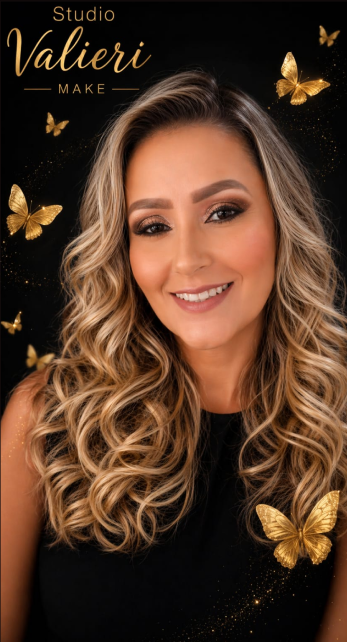
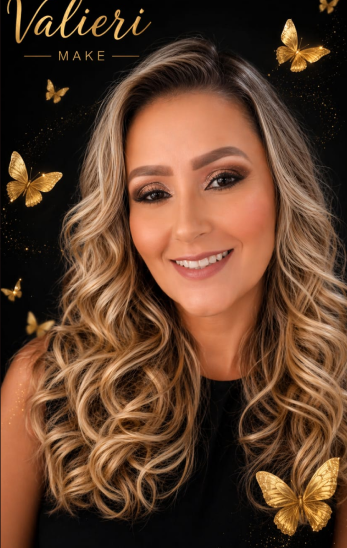
tamanhos dos textos e botoes alterados

diff --git a/src/css/style.css b/src/css/style.css
@@ -470,11 +470,11 @@ nav a:hover::after{
 }
 #todos-os-servicos div h2 {
     color: #fefefe;
-    font-size: clamp(15px,3vw, 20px);
+    font-size: clamp(15px,4vw, 25px);
 }
 #section-4 img:hover{
     transform: translateY(-10px);
-    border: solid 5px var(--acent-color);
+    border: solid 3px var(--acent-color);
 }
 #confira-btn{ 
     background-color: var(--acent-color);
@@ -611,7 +611,9 @@ footer a:hover {
     color: #b3881a; /* Cor dourada do seu tema ao passar o mouse */
 }
 
+/*acima esta o footer*/
 
+/*animação dos textos abaixo*/
 .texto {
   opacity: 0;
   transform: translateX(-50px); /* Empurra 50px para a esquerda */
@@ -624,7 +626,9 @@ footer a:hover {
   opacity: 1;
   transform: translateX(0); /* Volta para a posição original */
 }
-/*acima esta o footer*/
+span{
+    color: white;
+}
 
 @media (max-width: 768px) {
     #section-2, #section-3, #section-4 {
@@ -663,6 +667,7 @@ footer a:hover {
         max-width: 45px;
         max-height: 45px;
     }
+    
     #section-1 #logo-wpp{
         max-width: 45px;
         max-height: 46px;
@@ -695,16 +700,16 @@ footer a:hover {
         order: 2;
     }
     #section-2 img {
-        max-width: 65vw; 
-        max-height: 45vh;
+        max-width: 60vw; 
+        max-height: 40vh;
         border-radius: 8px;
+        margin-bottom: 10px;
     }
 
     /* 3º Lugar: O h2 (Título maior) */
     .sobre-lash-designer #titulo-maior-section2 {
         order: 3;
-        margin-left: 0;
-        margin-top: 10px;
+        margin-left: 5px;
         text-align: center;
     }
 
@@ -719,9 +724,14 @@ footer a:hover {
     #agendar-btn {
         order: 5;
         margin-left: 0; 
-        margin-top: 10px;
+        margin-top: 15px;
         height: 40px;
-        font-size: clamp(15px, 3vw, 20px);
+        font-size: clamp(18px, 3vw, 20px);
+        display: flex;
+        flex-direction: row;
+        align-items: center;
+        justify-content: center;
+        gap: 5px;
     }
     
 
@@ -753,13 +763,13 @@ footer a:hover {
         max-width: 60vw; 
         max-height: 40vh;
         border-radius: 8px;
+        margin-bottom: 10px;
     }
 
     /* 3º Lugar: O h2 (Título maior) */
     .sobre-o-espaco #titulo-maior-section3 {
         order: 3;
         margin-left: 0;
-        margin-top: 10px;
         text-align: center;
     }
 
@@ -774,13 +784,36 @@ footer a:hover {
     #como-chegar-btn {
         order: 5;
         margin-left: 0; 
-        margin-top: 10px;
+        margin-top: 15px;
         height: 40px;
-        font-size: clamp(15px, 3vw, 20px);
+        font-size: clamp(18px, 3vw, 20px);
+        display: flex;
+        flex-direction: row;
+        align-items: center;
+        justify-content: center;
+        gap: 5px;
+    }#confira-btn {
+        margin-left: 0; 
+        margin-top: 15px;
+        height: 40px;
+        font-size: clamp(18px, 3vw, 20px);
+        display: flex;
+        flex-direction: row;
+        align-items: center;
+        justify-content: center;
+        gap: 5px;
     }
 
     /* ... resto do seu media query ... */
 
+    #section-4{
+        gap: 5vh;
+    }
+    #section-4 h2{
+        font-size: clamp(18px, 3vw, 20px);
+        font-weight: 800;
+    }
+    
     nav {
         padding: 0 10px;
         width: 100%;
@@ -813,9 +846,9 @@ footer a:hover {
     
     #wpp-flutuante {
         position: fixed;
-        width: 60px;
-        height: 60px;
-        right: 15px !important; 
+        width: 70px;
+        height: 70px;
+        right: 15px ; 
         bottom: 15px;
         z-index: 99999;
     }

diff --git a/index.html b/index.html
@@ -16,6 +16,7 @@
       href="https://fonts.googleapis.com/css2?family=Edu+NSW+ACT+Cursive:wght@400..700&family=Inria+Serif:ital,wght@0,300;0,400;0,700;1,300;1,400;1,700&family=Instrument+Serif:ital@0;1&family=Poppins:ital,wght@0,100;0,200;0,300;0,400;0,500;0,600;0,700;0,800;0,900;1,100;1,200;1,300;1,400;1,500;1,600;1,700;1,800;1,900&display=swap"
       rel="stylesheet"
     />
+    <link rel="stylesheet" href="https://fonts.googleapis.com/css2?family=Material+Symbols+Outlined:opsz,wght,FILL,GRAD@24,400,0,0" />
   </head>
   <body>
     <header>
@@ -88,7 +89,7 @@
         </p>
 
         <button id="agendar-btn">
-          <a href="https://wa.me/5511915902809" target="_blank">Agende sua transformação!</a>
+          <a href="https://wa.me/5511915902809" target="_blank">Agende sua transformação!</a><span class="material-symbols-outlined">arrow_forward</span>
         </button>
       </div>
     </section>
@@ -114,7 +115,7 @@
             e confiante!
           </p>
           <button id="como-chegar-btn">
-            <a href="https://maps.app.goo.gl/ouPAQ7CJWfubwJqBA" target="_blank">Como chegar</a>
+            <a href="https://maps.app.goo.gl/ouPAQ7CJWfubwJqBA" target="_blank">Como chegar</a><span class="material-symbols-outlined"> search</span>
           </button>
         </div>
 
@@ -148,7 +149,7 @@
           </div>
         </div>
         <button id="confira-btn">
-            <a href="https://www.instagram.com/studio_valierii?utm_source=ig_web_button_share_sheet&igsh=ZDNlZDc0MzIxNw==" target="_blank">Descubra todos os Serviços</a>
+            <a href="https://www.instagram.com/studio_valierii?utm_source=ig_web_button_share_sheet&igsh=ZDNlZDc0MzIxNw==" target="_blank">Descubra todos os Serviços</a><span class="material-symbols-outlined">arrow_forward</span>
         </button>
       </section>
       <button id="wpp-flutuante"><a href="https://wa.me/5511915902809" target="_blank"><img src="./src/img/icone-wpp-botao-flutuante.png" alt=""></a></button>